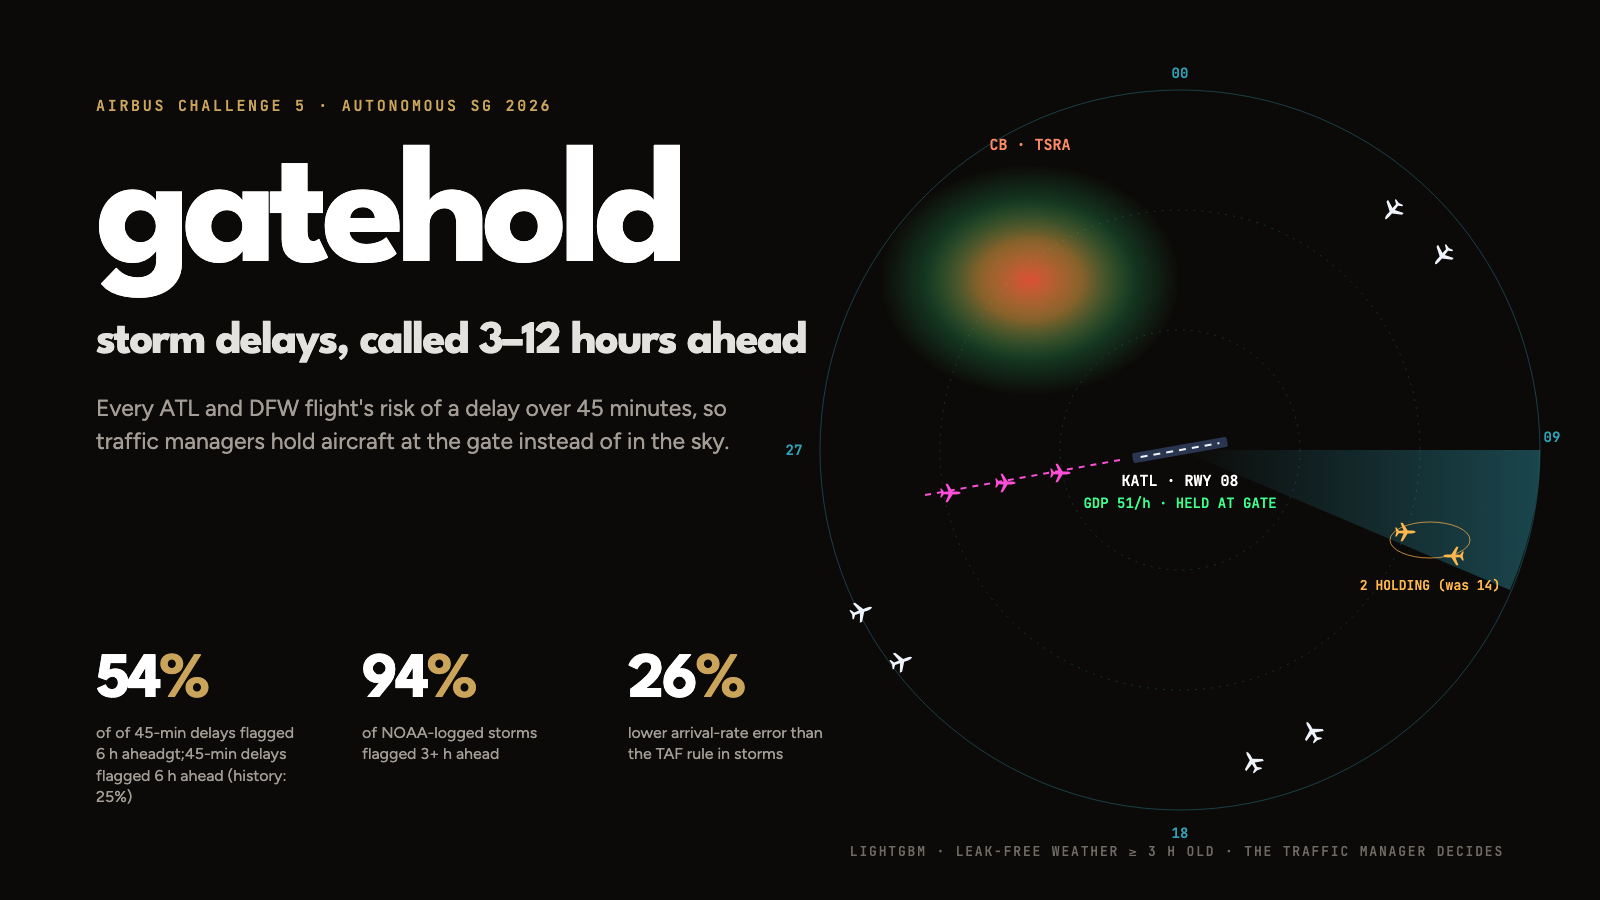
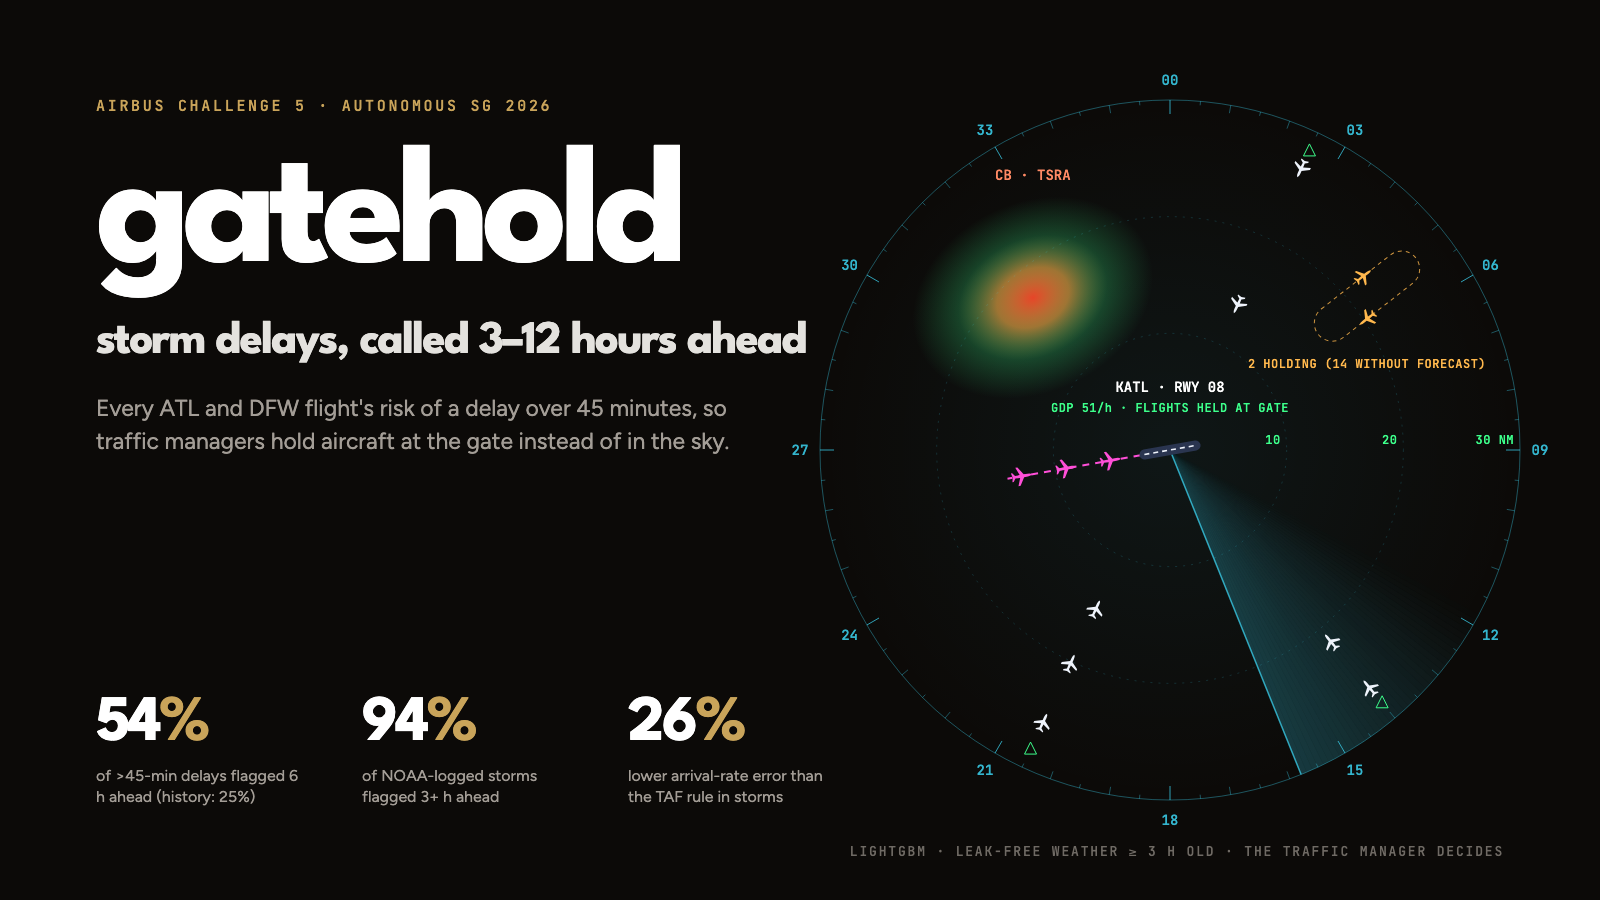
Cover image: redraw radar (compass, range rings, runway 08 approach, holding pattern)

diff --git a/docs/cover.html b/docs/cover.html
@@ -13,6 +13,7 @@ h1{font:700 168px/0.85 "League Spartan",sans-serif;letter-spacing:-.05em;margin:
 .s .d{font-size:16px;color:#a39d96;margin-top:8px;max-width:210px;line-height:1.35}
 .s .v span{color:#c9a45a}
 .r{position:absolute;right:40px;top:50px;width:780px;height:800px}
+.lab{font:500 14px 'JetBrains Mono',monospace}.sm{font:500 12px 'JetBrains Mono',monospace;letter-spacing:.04em}
 .foot{position:absolute;right:96px;bottom:40px;font:500 13px "JetBrains Mono",monospace;letter-spacing:.14em;color:#6f6a64;text-transform:uppercase}
 </style></head><body>
 <div class="l">
@@ -22,38 +23,57 @@ h1{font:700 168px/0.85 "League Spartan",sans-serif;letter-spacing:-.05em;margin:
   <div class="p">Every ATL and DFW flight's risk of a delay over 45 minutes, so traffic managers hold aircraft at the gate instead of in the sky.</div>
 </div>
 <div class="stats">
-  <div class="s"><div class="v">54<span>%</span></div><div class="d">of of 45-min delays flagged 6 h aheadgt;45-min delays flagged 6 h ahead (history: 25%)</div></div>
+  <div class="s"><div class="v">54<span>%</span></div><div class="d">of &gt;45-min delays flagged 6 h ahead (history: 25%)</div></div>
   <div class="s"><div class="v">94<span>%</span></div><div class="d">of NOAA-logged storms flagged 3+ h ahead</div></div>
   <div class="s"><div class="v">26<span>%</span></div><div class="d">lower arrival-rate error than the TAF rule in storms</div></div>
 </div>
-<svg class="r" viewBox="0 0 780 800">
-  <defs>
-    <radialGradient id="st" cx="50%" cy="50%" r="50%"><stop offset="0" stop-color="#ff5a3c" stop-opacity=".85"/><stop offset=".35" stop-color="#ffb84d" stop-opacity=".5"/><stop offset=".7" stop-color="#3dff8b" stop-opacity=".18"/><stop offset="1" stop-color="#3dff8b" stop-opacity="0"/></radialGradient>
-    <linearGradient id="sw" x1="0" x2="1"><stop offset="0" stop-color="#3ee0ff" stop-opacity="0"/><stop offset="1" stop-color="#3ee0ff" stop-opacity=".28"/></linearGradient>
-    <symbol id="pl" viewBox="-10 -9 20 18"><path d="M9 0Q8-1.3 5-1.3L1.5-1.3-3-8.5-5-8.5-2.2-1.3-6.5-1.1-8.6-4-9.8-4-8.8 0-9.8 4-8.6 4-6.5 1.1-2.2 1.3-5 8.5-3 8.5 1.5 1.3 5 1.3Q8 1.3 9 0Z"/></symbol>
-  </defs>
-  <g transform="translate(400 400)">
-    <circle r="360" fill="none" stroke="#3ee0ff" stroke-opacity=".25"/>
-    <circle r="240" fill="none" stroke="#3ee0ff" stroke-opacity=".18" stroke-dasharray="2 6"/>
-    <circle r="120" fill="none" stroke="#3ee0ff" stroke-opacity=".18" stroke-dasharray="2 6"/>
-    <g font-family="JetBrains Mono" font-size="14" fill="#3ee0ff" fill-opacity=".7" text-anchor="middle">
-      <text y="-372">00</text><text x="372" y="-8">09</text><text y="388">18</text><text x="-386" y="5">27</text></g>
-    <path d="M0 0 L330 140 A360 360 0 0 0 360 0 Z" fill="url(#sw)"/>
-    <ellipse cx="-150" cy="-170" rx="150" ry="115" fill="url(#st)"/>
-    <text x="-150" y="-300" font-family="JetBrains Mono" font-size="15" fill="#ff8a65" text-anchor="middle">CB · TSRA</text>
-    <g transform="rotate(-10)"><rect x="-48" y="-5" width="96" height="10" rx="2" fill="#2a3550"/>
-      <line x1="-40" y1="0" x2="40" y2="0" stroke="#eef3fb" stroke-dasharray="7 6" stroke-width="2"/></g>
-    <line x1="-60" y1="10" x2="-260" y2="46" stroke="#ff4fd8" stroke-dasharray="6 6" stroke-width="2"/>
-    <g fill="#ff4fd8"><use href="#pl" x="-130" y="13" width="22" height="20"/><use href="#pl" x="-185" y="23" width="22" height="20"/><use href="#pl" x="-240" y="33" width="22" height="20"/></g>
-    <text x="0" y="36" font-family="JetBrains Mono" font-size="15" fill="#fff" text-anchor="middle">KATL · RWY 08</text>
-    <text x="0" y="58" font-family="JetBrains Mono" font-size="14" fill="#3dff8b" text-anchor="middle">GDP 51/h · HELD AT GATE</text>
-    <g fill="#eef3fb"><use href="#pl" x="200" y="-250" width="24" height="22" transform="rotate(130 212 -239)"/><use href="#pl" x="250" y="-205" width="24" height="22" transform="rotate(130 262 -194)"/>
-      <use href="#pl" x="-330" y="150" width="24" height="22" transform="rotate(-20 -318 161)"/><use href="#pl" x="-290" y="200" width="24" height="22" transform="rotate(-20 -278 211)"/>
-      <use href="#pl" x="120" y="270" width="24" height="22" transform="rotate(-120 132 281)"/><use href="#pl" x="60" y="300" width="24" height="22" transform="rotate(-120 72 311)"/></g>
-    <g fill="none" stroke="#ffb84d" stroke-opacity=".7"><ellipse cx="250" cy="90" rx="40" ry="18"/></g>
-    <g fill="#ffb84d"><use href="#pl" x="215" y="72" width="22" height="20"/><use href="#pl" x="262" y="96" width="22" height="20" transform="rotate(180 273 106)"/></g>
-    <text x="250" y="140" font-family="JetBrains Mono" font-size="13" fill="#ffb84d" text-anchor="middle">2 HOLDING (was 14)</text>
-  </g>
-</svg>
+<svg class="r" id="radar" viewBox="0 0 780 800"></svg>
+<script>
+(() => {
+  const R = 350, cx = 390, cy = 400, NS = "http://www.w3.org/2000/svg", svg = document.getElementById("radar");
+  const pol = (brg, r) => [cx + r * Math.sin(brg * Math.PI / 180), cy - r * Math.cos(brg * Math.PI / 180)];   // bearing from north, clockwise
+  let h = `<defs>
+    <radialGradient id="st"><stop offset="0" stop-color="#ff4b2b" stop-opacity=".9"/><stop offset=".3" stop-color="#ffb84d" stop-opacity=".6"/><stop offset=".62" stop-color="#3dff8b" stop-opacity=".22"/><stop offset="1" stop-color="#3dff8b" stop-opacity="0"/></radialGradient>
+    <radialGradient id="glow"><stop offset="0" stop-color="#3ee0ff" stop-opacity=".06"/><stop offset="1" stop-color="#3ee0ff" stop-opacity="0"/></radialGradient>
+    <symbol id="pl" viewBox="-10 -9 20 18" overflow="visible"><path d="M9 0Q8-1.3 5-1.3L1.5-1.3-3-8.5-5-8.5-2.2-1.3-6.5-1.1-8.6-4-9.8-4-8.8 0-9.8 4-8.6 4-6.5 1.1-2.2 1.3-5 8.5-3 8.5 1.5 1.3 5 1.3Q8 1.3 9 0Z"/></symbol></defs>
+    <circle cx="${cx}" cy="${cy}" r="${R}" fill="url(#glow)"/>`;
+  // radar sweep: a fading 40° wedge trailing the beam at bearing 118°
+  const beam = 158;
+  for (let i = 0; i < 40; i++) { const a0 = beam - i - 1, a1 = beam - i, [x0, y0] = pol(a0, R), [x1, y1] = pol(a1, R);
+    h += `<path d="M${cx},${cy} L${x0},${y0} A${R},${R} 0 0 1 ${x1},${y1} Z" fill="#3ee0ff" fill-opacity="${(0.22 * (1 - i / 40)).toFixed(3)}"/>`; }
+  { const [x, y] = pol(beam, R); h += `<line x1="${cx}" y1="${cy}" x2="${x}" y2="${y}" stroke="#3ee0ff" stroke-opacity=".7" stroke-width="1.5"/>`; }
+  // storm cell to the north-west, in the arrival path
+  { const [x, y] = pol(318, 205); h += `<ellipse cx="${x}" cy="${y}" rx="125" ry="95" transform="rotate(-25 ${x} ${y})" fill="url(#st)"/>
+     <text x="${x}" y="${y - 118}" class="lab" fill="#ff8a65" text-anchor="middle">CB · TSRA</text>`; }
+  // range rings 10/20/30 NM and the compass rose
+  [R / 3, 2 * R / 3].forEach(r => h += `<circle cx="${cx}" cy="${cy}" r="${r}" fill="none" stroke="#3ee0ff" stroke-opacity=".16" stroke-dasharray="2 6"/>`);
+  h += `<circle cx="${cx}" cy="${cy}" r="${R}" fill="none" stroke="#3ee0ff" stroke-opacity=".35"/>`;
+  for (let d = 0; d < 360; d += 5) { const big = d % 30 === 0, [x0, y0] = pol(d, R), [x1, y1] = pol(d, R - (big ? 14 : d % 10 ? 4 : 8));
+    h += `<line x1="${x0}" y1="${y0}" x2="${x1}" y2="${y1}" stroke="#3ee0ff" stroke-opacity="${big ? .7 : .35}"/>`;
+    if (big) { const [tx, ty] = pol(d, R + 20); h += `<text x="${tx}" y="${ty + 5}" class="lab" fill="#3ee0ff" fill-opacity=".8" text-anchor="middle">${String(d / 10).padStart(2, "0")}</text>`; } }
+  [[R / 3, "10"], [2 * R / 3, "20"], [R, "30 NM"]].forEach(([r, t]) => { const [x, y] = pol(90, r); h += `<text x="${x - 6}" y="${y - 6}" class="sm" fill="#3dff8b" text-anchor="end">${t}</text>`; });
+  // runway 08/26 at the centre, extended centreline and final approach from the west (aircraft land heading 080)
+  const RW = 80, [ra, rb] = [pol(RW + 180, 26), pol(RW, 26)];
+  const [fa, fb] = [pol(RW + 180, 30), pol(RW + 180, 165)];
+  h += `<line x1="${fa[0]}" y1="${fa[1]}" x2="${fb[0]}" y2="${fb[1]}" stroke="#ff4fd8" stroke-width="2" stroke-dasharray="7 6"/>
+    <line x1="${ra[0]}" y1="${ra[1]}" x2="${rb[0]}" y2="${rb[1]}" stroke="#2a3550" stroke-width="10" stroke-linecap="round"/>
+    <line x1="${ra[0]}" y1="${ra[1]}" x2="${rb[0]}" y2="${rb[1]}" stroke="#eef3fb" stroke-width="1.6" stroke-dasharray="5 4"/>`;
+  const plane = (x, y, hdg, col, sz = 22) => `<use href="#pl" x="${x - sz / 2}" y="${y - sz / 2}" width="${sz}" height="${sz}" fill="${col}" transform="rotate(${hdg - 90} ${x} ${y})"/>`;
+  [60, 105, 150].forEach(r => { const [x, y] = pol(RW + 180, r); h += plane(x, y, RW, "#ff4fd8"); });   // on final, nose to the runway
+  // feeder streams from three arrival fixes, every aircraft pointed at the field; fixes marked with triangles
+  [[25, [310, 160]], [140, [310, 250]], [205, [300, 235, 175]]].forEach(([brg, rs]) => {
+    const [fx, fy] = pol(brg, R - 20);
+    h += `<path d="M${fx},${fy - 7} L${fx + 6},${fy + 5} L${fx - 6},${fy + 5} Z" fill="none" stroke="#3dff8b"/>`;
+    rs.forEach(r => { const [x, y] = pol(brg, r); h += plane(x, y, (brg + 180) % 360, "#eef3fb", 20); }); });
+  // holding pattern (racetrack) north-east of the field: 2 aircraft, down from 14 without the forecast
+  { const [hx, hy] = pol(52, 250), L = 44, W = 18, rot = 52;
+    h += `<g transform="rotate(${rot - 90} ${hx} ${hy})"><path d="M${hx - L},${hy - W} H${hx + L} A${W},${W} 0 0 1 ${hx + L},${hy + W} H${hx - L} A${W},${W} 0 0 1 ${hx - L},${hy - W} Z" fill="none" stroke="#ffb84d" stroke-opacity=".8" stroke-dasharray="4 4"/>
+      ${plane(hx + 10, hy - W, 90, "#ffb84d", 20)}${plane(hx - 14, hy + W, 270, "#ffb84d", 20)}</g>
+      <text x="${hx}" y="${hy + 72}" class="sm" fill="#ffb84d" text-anchor="middle">2 HOLDING (14 WITHOUT FORECAST)</text>`; }
+  h += `<text x="${cx}" y="${cy - 58}" class="lab" fill="#fff" text-anchor="middle">KATL · RWY 08</text>
+        <text x="${cx}" y="${cy - 38}" class="sm" fill="#3dff8b" text-anchor="middle">GDP 51/h · FLIGHTS HELD AT GATE</text>`;
+  svg.innerHTML = h;
+})();
+</script>
 <div class="foot">LightGBM · leak-free weather ≥ 3 h old · the traffic manager decides</div>
 </body></html>
